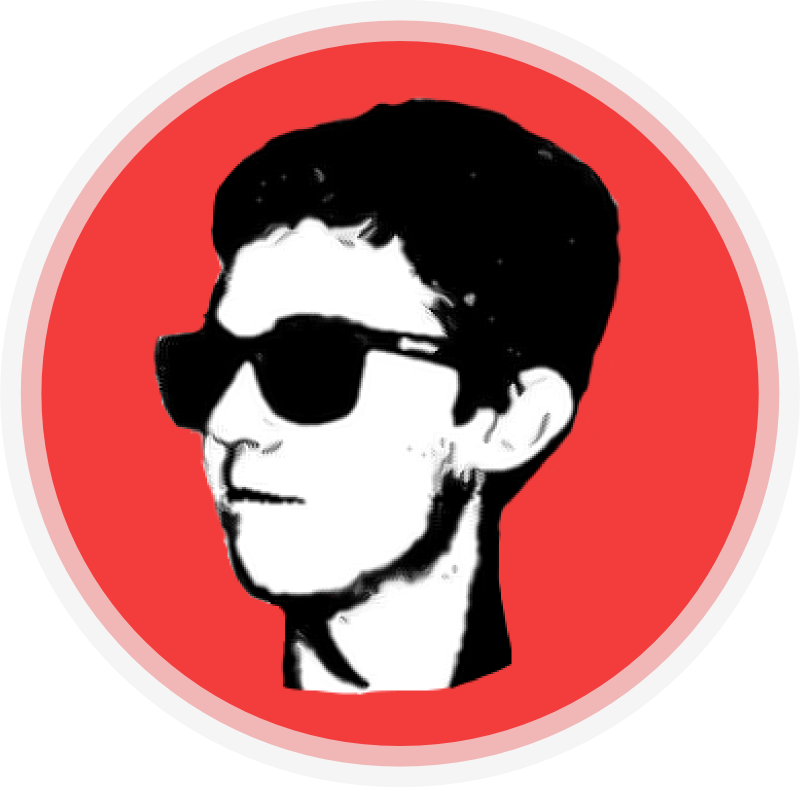
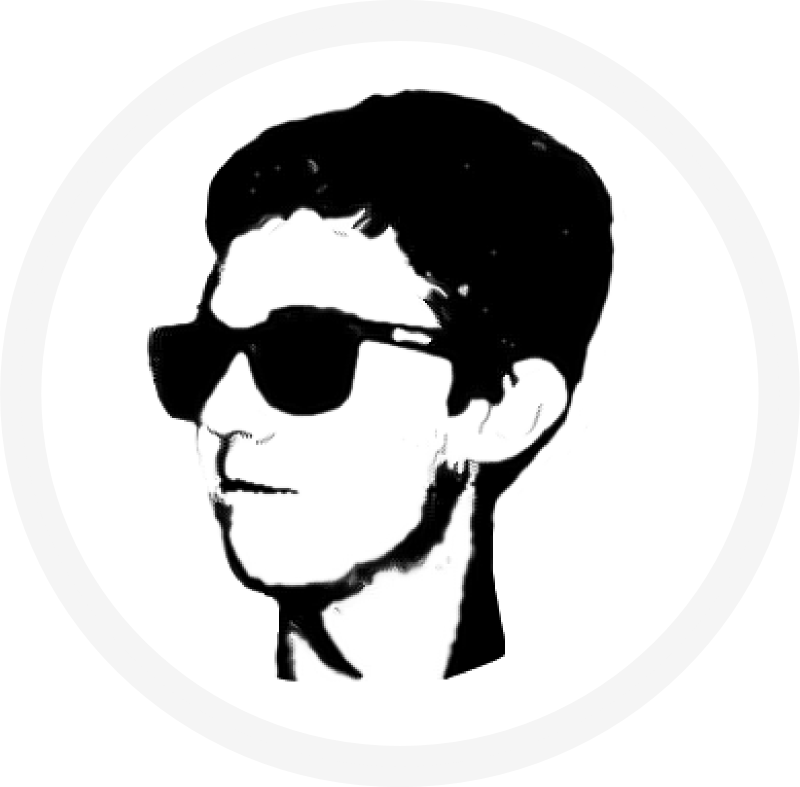
added lots of shit

diff --git a/public/css/style.css b/public/css/style.css
@@ -13,7 +13,7 @@
 
 
 body { 
-  background-image: url('/img/background.png'); 
+  background-image: url('/img/texture6.jpg'); 
   /*background-size: 100% auto;*/
   /*background-attachment: fixed; */
   /*background-repeat: repeat fixed;*/
@@ -83,4 +83,27 @@ body {
   -moz-transform: rotateY(180deg);
   transform: rotateY(180deg);
 }
+
+.vertical.flip-container {
+  position: relative;
+}
+
+  .vertical .back {
+    -webkit-transform: rotateX(180deg);
+    -moz-transform: rotateX(180deg);
+    transform: rotateX(180deg);
+  }
+
+  .vertical.flip-container .flipper {
+    -webkit-transform-origin: 100% 100px;
+    -moz-transform-origin: 100% 100px;
+    transform-origin: 100% 100px;
+  }
+
+  .vertical.flip-container:hover .flipper {
+    -webkit-transform: rotateX(180deg);
+    -moz-transform: rotateX(180deg);
+    transform: rotateX(180deg);
+  }
+
 /* END FLIPPER */
